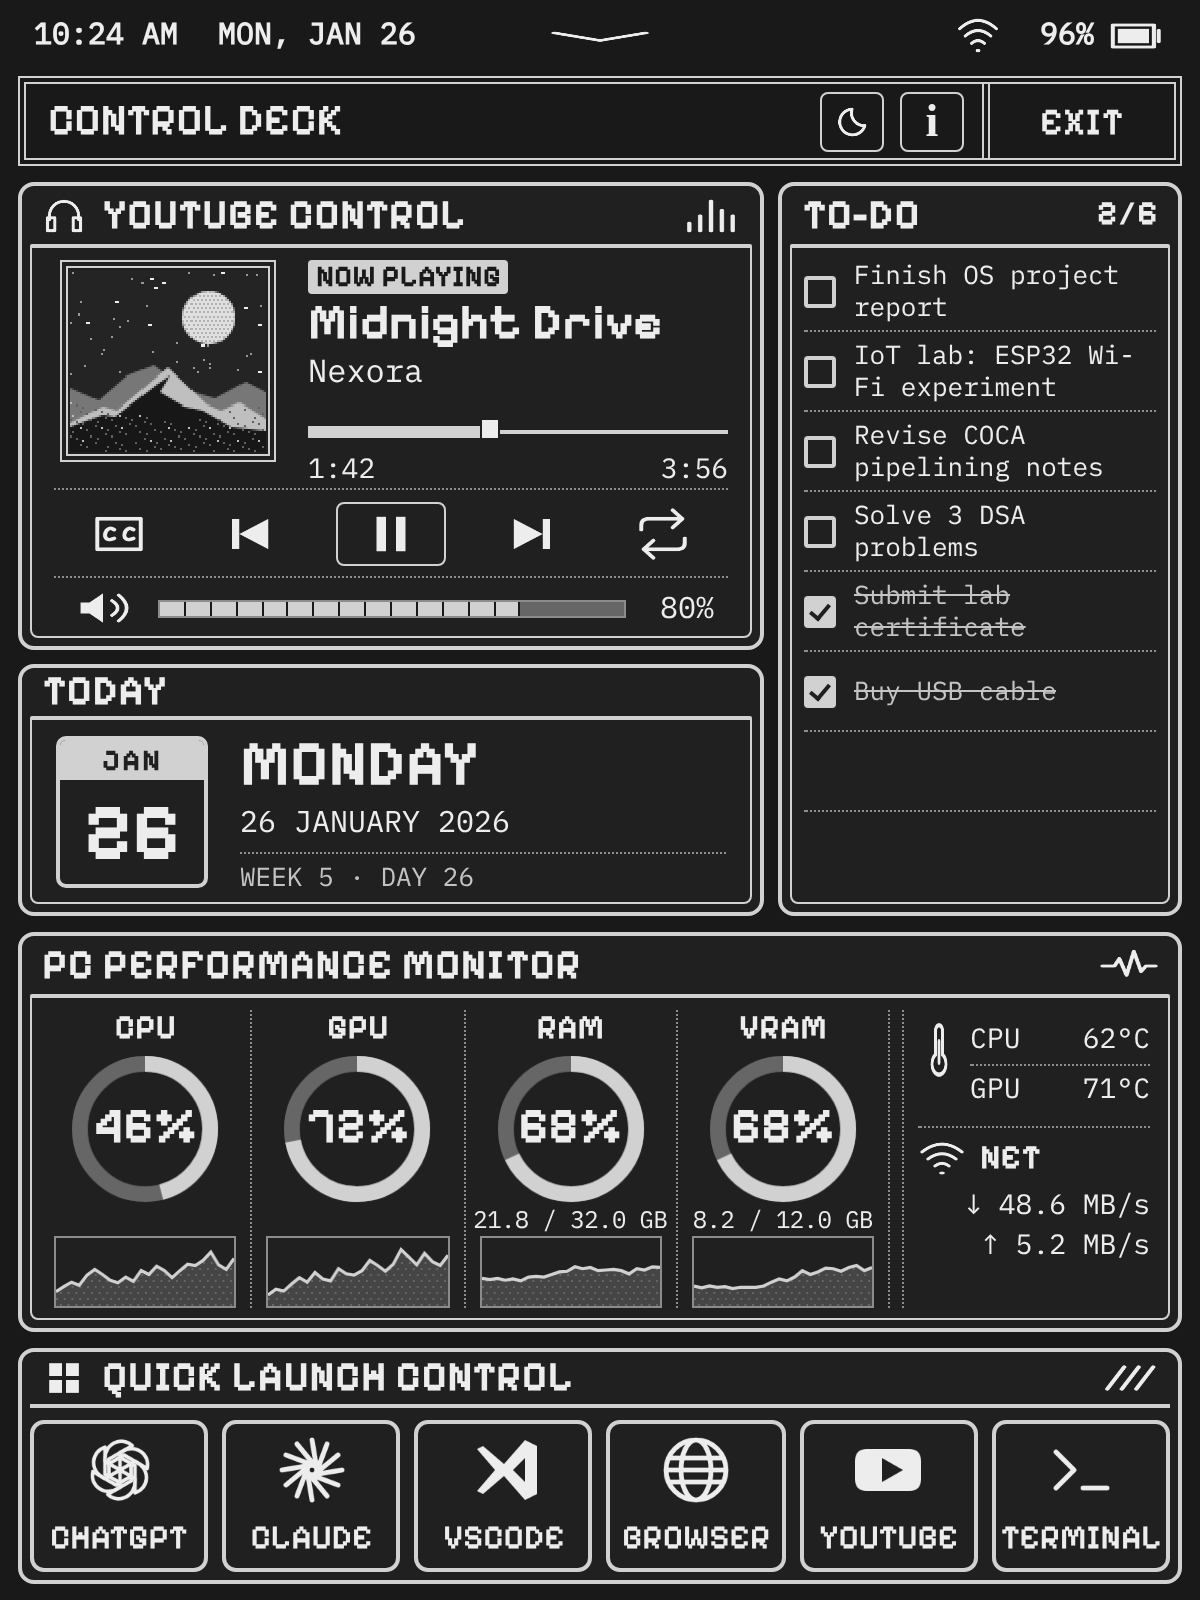
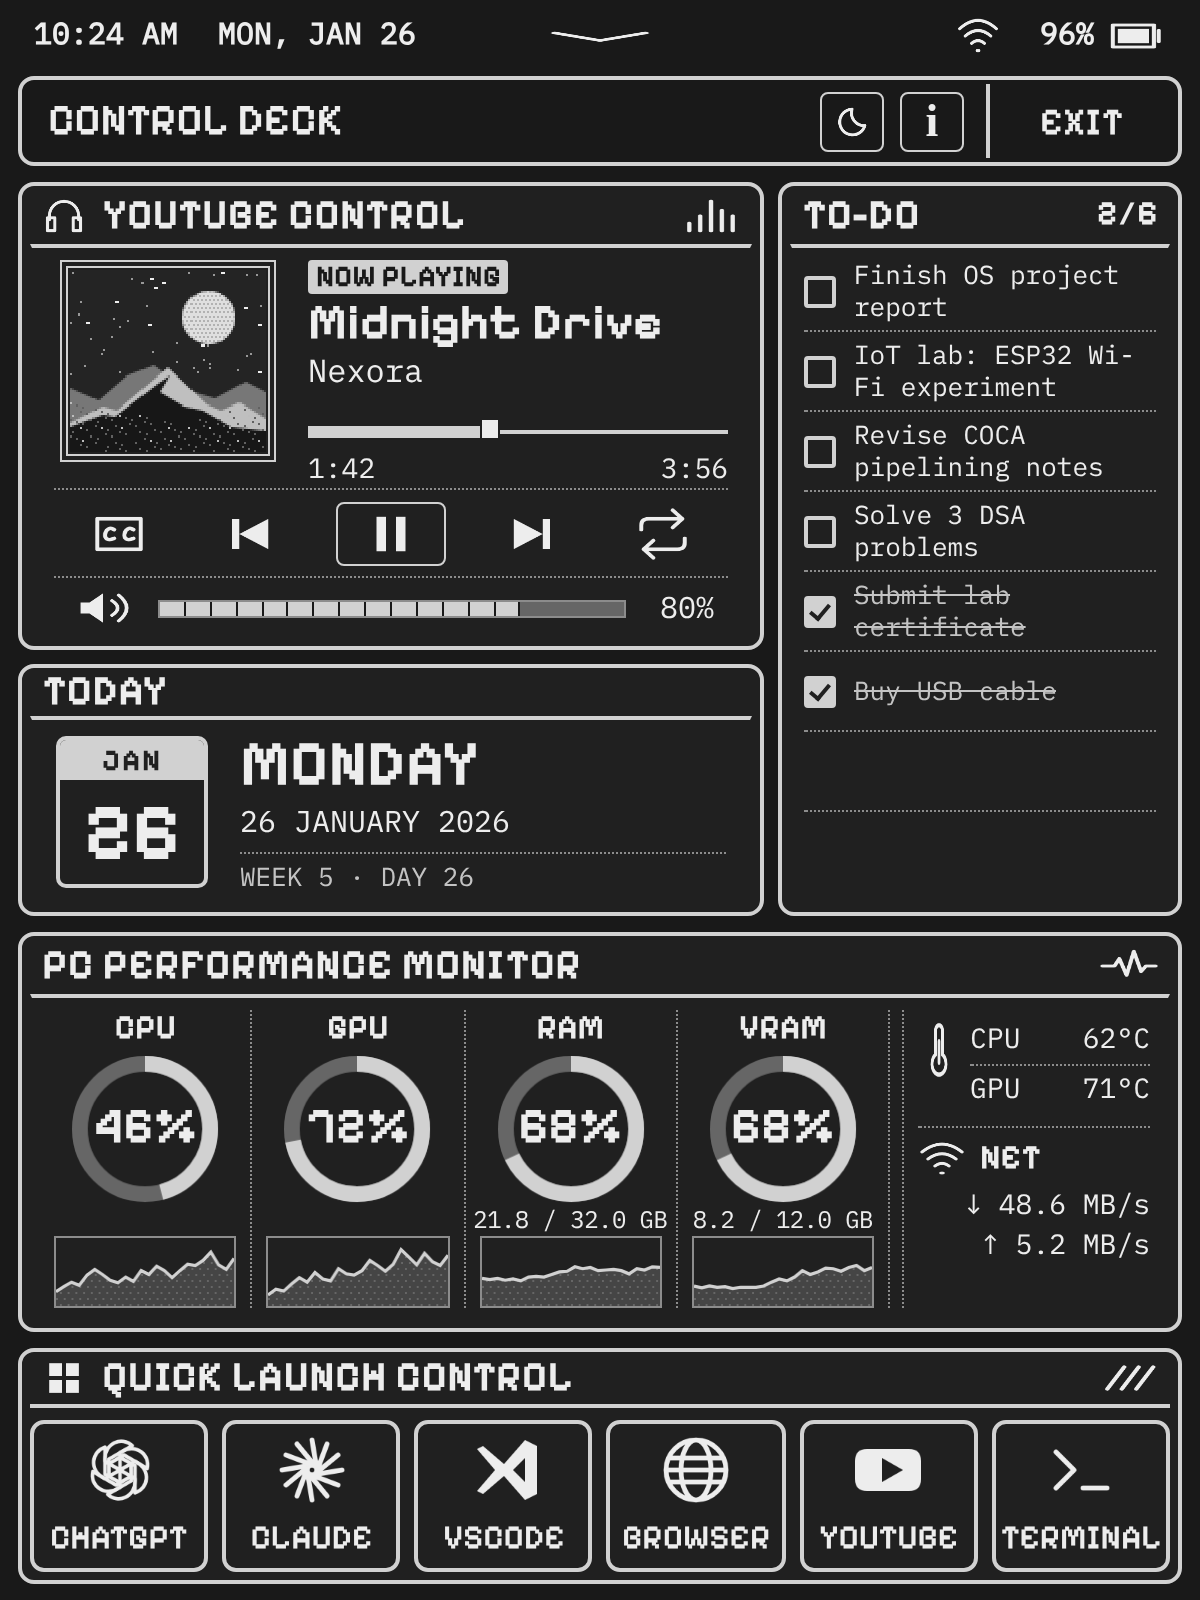
Simplify panel frames and show the Kindle's real battery
- Panels keep one frame: the inner body borders become invisible
  spacing (so layout and touch areas don't move) with a single divider
  under each header. The masthead and EXIT use single lines too.
- The status bar shows the Kindle's real battery level and a clear
  charging bolt, read from powerd via lipc-get-prop at start-up and
  every minute.
- New -battery and -charging preview flags.

Claude-Session: https://claude.ai/code/session_01E15PwoydSWjPQaLC7RhFRZ

Changed region(s): [[0.9558, 0.0312, 0.9867, 0.125], [0.8017, 0.0312, 0.8325, 0.0938], [0.0, 0.0312, 0.0308, 0.0938]]

diff --git a/design/dashboard.css b/design/dashboard.css
@@ -82,14 +82,14 @@ canvas[data-icon] { display: block; width: 22px; height: 22px; flex-shrink: 0; }
 .status-right { margin-left: auto; display: flex; align-items: center; }
 .status-right canvas:first-child { margin-right: 20px; }
 .status-right .battery { width: 29px; margin-left: 7px; }
-.masthead { display: grid; grid-template-columns: minmax(0, 1fr) 96px; border: 4px double var(--frame); }
+.masthead { display: grid; grid-template-columns: minmax(0, 1fr) 96px; border: 2px solid var(--frame); border-radius: 8px; padding: 2px; }
 .masthead-main { display: flex; align-items: center; padding: 0 9px 0 11px; }
 .masthead-main button { margin-left: 8px; }
 .masthead h1 { font-size: 22px; font-weight: 600; flex: 1; white-space: nowrap; }
 .masthead h1 span { font-size: 17px; }
 .square { display: grid; place-items: center; width: 32px; height: 30px; border: 1.5px solid var(--frame); border-radius: 4px; }
 .square b { font: bold 23px Georgia, serif; line-height: 1; }
-.exit { border-left: 4px double var(--frame); font-size: 19px; }
+.exit { border-left: 2px solid var(--frame); margin-left: 2px; font-size: 19px; }
 
 .panel {
   min-width: 0;
@@ -118,9 +118,10 @@ canvas[data-icon] { display: block; width: 22px; height: 22px; flex-shrink: 0; }
   flex: 1 1 auto;
   min-height: 0;
   min-width: 0;
-  border: 1px solid var(--frame);
-  border-top-width: 2px;
-  border-radius: 1px 1px 4px 4px;
+  /* One divider under the header; the sides stay as invisible space so nothing moves. */
+  border: 1px solid transparent;
+  border-top: 2px solid var(--frame);
+  border-radius: 0;
 }
 .top-panels {
   display: grid;

diff --git a/kindle/native/main.go b/kindle/native/main.go
@@ -58,11 +58,13 @@ type dashboard struct {
 	youtube                             *youtubeVideo
 	stats                               *pcStats
 	todo                                *todoList
+	kindleBattery                       int // -1 when unknown
+	kindleCharging                      bool
 	pending                             *bridgeAction
 }
 
 func newDashboard(pref string, now time.Time) *dashboard {
-	model := &dashboard{theme: dark, elapsed: 102, volume: 80, lastVolume: 80, playing: true, updated: now}
+	model := &dashboard{theme: dark, elapsed: 102, volume: 80, lastVolume: 80, playing: true, updated: now, kindleBattery: -1}
 	if pref == light.name {
 		model.theme = light
 	}
@@ -298,6 +300,9 @@ func (a *artwork) draw(d *dashboard, now time.Time) *canvas {
 	rectangle(img, 12, 5, 266, 31, t.paper)
 	textAt(img, a.small, 17, 22, now.Format("3:04 PM"), t.ink)
 	textAt(img, a.small, 109, 22, strings.ToUpper(now.Format("Mon, Jan 2")), t.ink)
+	if d.kindleBattery >= 0 {
+		a.drawKindleBattery(img, t, d.kindleBattery, d.kindleCharging)
+	}
 
 	song := tracks[d.track]
 	position, volume := d.elapsed, d.volume
@@ -429,6 +434,8 @@ func main() {
 	bridgeCheck := flag.String("bridge-check", "", "test pairing from the given directory")
 	previewStats := flag.String("preview-stats", "", "JSON file of PC stats to show in a PNG preview")
 	previewTodo := flag.String("preview-todo", "", "JSON file of a to-do list to show in a PNG preview")
+	previewBattery := flag.Int("battery", -1, "Kindle battery level to show in a PNG preview")
+	previewCharging := flag.Bool("charging", false, "show the Kindle as charging in a PNG preview")
 	previewScreen := flag.String("screen", "600x800", "screen size for a PNG preview, e.g. 1072x1448 for a Paperwhite 3")
 	flag.Parse()
 	if *bridgeCheck != "" {
@@ -455,6 +462,7 @@ func main() {
 			log.Fatal(err)
 		}
 		model := newDashboard(*previewTheme, now)
+		model.kindleBattery, model.kindleCharging = *previewBattery, *previewCharging
 		if *previewStats != "" {
 			raw, err := os.ReadFile(*previewStats)
 			if err != nil {

diff --git a/kindle/native/device_linux_arm.go b/kindle/native/device_linux_arm.go
@@ -13,6 +13,7 @@ import (
 	"os/signal"
 	"path/filepath"
 	"reflect"
+	"strconv"
 	"strings"
 	"syscall"
 	"time"
@@ -124,6 +125,31 @@ func paint(ctx context.Context, fbink, path string, frame image.Image, flash boo
 	return nil
 }
 
+// readKindleBattery asks the Kindle's power daemon for the charge level and charging state.
+func readKindleBattery(ctx context.Context) (int, bool, bool) {
+	get := func(property string) (int, error) {
+		probe, stop := context.WithTimeout(ctx, 3*time.Second)
+		defer stop()
+		output, err := exec.CommandContext(probe, "lipc-get-prop", "com.lab126.powerd", property).Output()
+		if err != nil {
+			return 0, err
+		}
+		return strconv.Atoi(strings.TrimSpace(string(output)))
+	}
+	level, err := get("battLevel")
+	if err != nil {
+		return 0, false, false
+	}
+	charging, _ := get("isCharging")
+	return level, charging == 1, true
+}
+
+func (d *dashboard) refreshBattery(ctx context.Context) {
+	if level, charging, ok := readKindleBattery(ctx); ok {
+		d.kindleBattery, d.kindleCharging = level, charging
+	}
+}
+
 // screenViewport asks FBInk for the real screen size so the dashboard fills
 // larger screens such as the Paperwhite's 1072 × 1448 panel.
 func screenViewport(ctx context.Context, fbink string) viewport {
@@ -203,6 +229,7 @@ func runDevice(model *dashboard, preference string) error {
 	if err != nil {
 		return err
 	}
+	model.refreshBattery(ctx)
 	if err := paint(ctx, fbink, framePath, view.fit(art.render(model, time.Now()), model.theme.paper), true); err != nil {
 		return err
 	}
@@ -216,6 +243,7 @@ func runDevice(model *dashboard, preference string) error {
 			return nil
 		case <-minute.C:
 			minute.Reset(time.Until(time.Now().Truncate(time.Minute).Add(time.Minute)))
+			model.refreshBattery(ctx)
 		case update := <-updates:
 			wasOnline, wasBrowserReady := model.pcOnline, model.browserReady
 			model.pcOnline = update.err == nil

diff --git a/kindle/native/canvas.go b/kindle/native/canvas.go
@@ -1,10 +1,12 @@
 package main
 
 import (
+	"fmt"
 	"image"
 	"image/color"
 	"image/draw"
 	"math"
+	"sort"
 
 	"golang.org/x/image/font"
 	"golang.org/x/image/math/fixed"
@@ -109,4 +111,42 @@ func (a *artwork) fitText(face font.Face, value string, width int) string {
 		}
 	}
 	return ""
+}
+
+// drawKindleBattery replaces the sample battery in the status bar with the Kindle's real charge.
+func (a *artwork) drawKindleBattery(c *canvas, t theme, level int, charging bool) {
+	level = max(0, min(100, level))
+	rectangle(c, 505, 5, 590, 30, t.paper)
+	rightText(c, a.small, 547, 22, fmt.Sprintf("%d%%", level), t.ink)
+	// Battery body, terminal nub and charge level.
+	outline(c, image.Rect(556, 12, 577, 24), t.ink)
+	rectangle(c, 577, 15, 580, 21, t.ink)
+	rectangle(c, 558, 14, 558+17*level/100, 22, t.ink)
+	if charging {
+		// While charging, show a clear lightning bolt; the percentage still gives the level.
+		rectangle(c, 558, 14, 575, 22, t.paper)
+		c.polygon([][2]float64{{568.5, 12.5}, {562, 18.6}, {566, 18.6}, {564.5, 23.5}, {571.5, 17.2}, {567.4, 17.2}, {569.5, 12.5}}, t.ink)
+	}
+}
+
+// polygon fills a closed shape given in logical coordinates, at device resolution.
+func (c *canvas) polygon(points [][2]float64, ink color.Gray) {
+	minY, maxY := math.Inf(1), math.Inf(-1)
+	for _, p := range points {
+		minY, maxY = math.Min(minY, p[1]), math.Max(maxY, p[1])
+	}
+	for py := int(math.Floor(minY * c.scale)); py <= int(math.Ceil(maxY*c.scale)); py++ {
+		y := (float64(py) + .5) / c.scale
+		var xs []float64
+		for i := range points {
+			p, q := points[i], points[(i+1)%len(points)]
+			if (p[1] <= y) != (q[1] <= y) {
+				xs = append(xs, p[0]+(y-p[1])/(q[1]-p[1])*(q[0]-p[0]))
+			}
+		}
+		sort.Float64s(xs)
+		for i := 0; i+1 < len(xs); i += 2 {
+			c.fillPx(image.Rect(int(math.Round(xs[i]*c.scale)), py, int(math.Round(xs[i+1]*c.scale)), py+1), ink)
+		}
+	}
 }

diff --git a/kindle/native/touch_test.go b/kindle/native/touch_test.go
@@ -227,3 +227,30 @@ func TestViewportFitsPaperwhite(t *testing.T) {
 		t.Fatal("600x800 screens must be unchanged")
 	}
 }
+
+func TestStatusBarShowsKindleBattery(t *testing.T) {
+	art, err := openArtwork(1)
+	if err != nil {
+		t.Fatal(err)
+	}
+	now := time.Now()
+	model := newDashboard("dark", now)
+	sample := art.render(model, now)
+	model.kindleBattery = 12
+	low := art.render(model, now)
+	model.kindleBattery = 95
+	high := art.render(model, now)
+	differs := func(a, b *image.Gray, area image.Rectangle) bool {
+		for y := area.Min.Y; y < area.Max.Y; y++ {
+			for x := area.Min.X; x < area.Max.X; x++ {
+				if a.GrayAt(x, y) != b.GrayAt(x, y) {
+					return true
+				}
+			}
+		}
+		return false
+	}
+	if !differs(sample, low, image.Rect(505, 5, 590, 30)) || !differs(low, high, image.Rect(556, 12, 580, 24)) {
+		t.Fatal("status bar did not show the real battery level")
+	}
+}

diff --git a/README.md b/README.md
@@ -7,6 +7,7 @@
 > - **TO-DO panel** (replaces the big clock): tasks come from `companion/todo.txt` on the PC, and tapping a task on the Kindle ticks it off in the file.
 > - **TODAY panel** (replaces Codex Limits): the date, ISO week and day of the year.
 > - **Sharp on any screen size**: everything is drawn natively at the Kindle's real resolution (fonts, lines, gauges and 2× background artwork), so it fills a Kindle Paperwhite 3 (1072×1448) without blur, and taps are mapped to match.
+> - **Cleaner look and a real battery**: single-line panel frames instead of double borders, and the status bar shows the Kindle's actual battery level and charging state.
 > - **One-click Windows setup** (`Setup.bat`): installs the packages, pairs over Wi-Fi and the USB cable, and copies the files to the Kindle. Pairing no longer needs OpenSSL.
 > - **Ethernet over USB** for older Kindles: see the [Paperwhite 3 / USB guide](docs/paperwhite3-usb.md).
 
